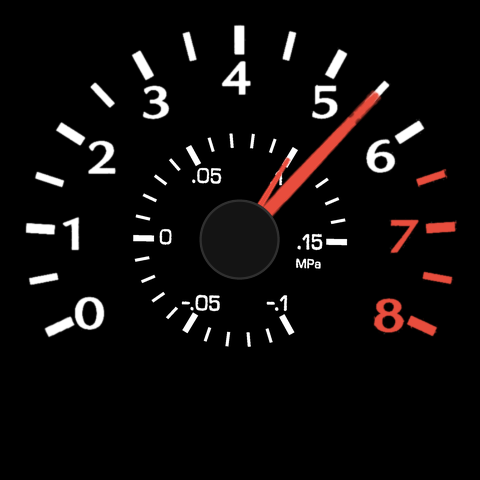
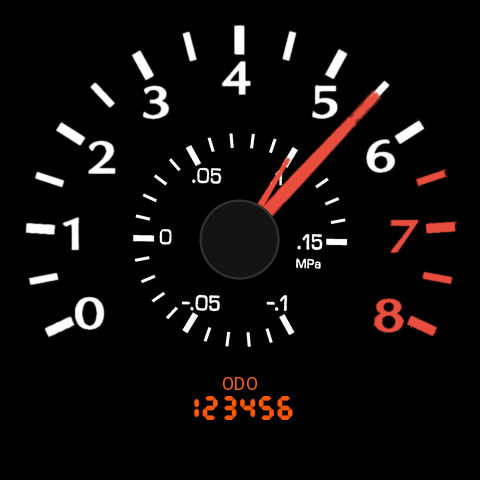
Legend Roboto Regular 13 px hinted; boost tach night mode

Changed region(s): [[0.4062, 0.7812, 0.625, 0.875]]

diff --git a/tools/odo/seg7.py b/tools/odo/seg7.py
@@ -43,31 +43,35 @@ def field_text(kind,value):
     return s
 # Legend ('ODO' / 'TRIP') in the Toyota LCD style (owner reference, 2026-10-16). Typeface: Roboto Regular, the closest
 # installed match to the traced Toyota 'ODO' legend (tools/odo/legend_extract.py; width ratio 1.01, ink ratio 1.00, IoU 0.78).
-# Cap height 0.47 x digit height and gap 0.24 x digit height, both measured off the Toyota ODO frame. Centred on the readout.
-# Colour: the gauge-light (night printing) orange, day and night.
-LEGEND=dict(font='/usr/share/fonts/truetype/roboto/unhinted/RobotoTTF/Roboto-Regular.ttf',cap_ratio=0.47,gap_ratio=0.24,
+# Cap height 13 px (owner, 2026-10-16: Regular enlarged rather than Medium; Toyota proportion would be 11 px), rendered
+# directly at 1x with FreeType hinting so the vertical stems snap to whole pixel columns. Gap 6 px (0.24 x digit height,
+# Toyota ODO frame). Centred on the readout. Colour: the gauge-light (night printing) orange, day and night.
+LEGEND=dict(font='/usr/share/fonts/truetype/roboto/unhinted/RobotoTTF/Roboto-Regular.ttf',cap_px=13,gap_px=6,
             rgb=list(P['printing_orange']),text={'odo':'ODO','trip':'TRIP'})
-def render_legend(word,cap,ss=8):
+def render_legend(word,cap):
     from PIL import ImageFont
-    ft=ImageFont.truetype(LEGEND['font'],100*ss); top,bot=ft.getbbox('H')[1],ft.getbbox('H')[3]  # shared cap line + baseline
-    l,_,r,_=ft.getbbox(word); im=Image.new('L',(r-l+4*ss,bot-top),0)
-    ImageDraw.Draw(im).text((-l+2*ss,-top),word,font=ft,fill=255)
-    W=max(1,round(im.width*cap/im.height)); m=np.asarray(im.resize((W,cap),Image.LANCZOS)).astype(float)/255
-    xs=np.where(m.max(0)>0.02)[0]; return m[:,xs.min():xs.max()+1]
+    def draw(sz):
+        ft=ImageFont.truetype(LEGEND['font'],sz); im=Image.new('L',(sz*len(word)+20,sz*2),0)
+        ImageDraw.Draw(im).text((4,4),word,font=ft,fill=255); return np.asarray(im).astype(float)/255
+    for sz in range(4,400):                       # smallest point size whose hinted caps are exactly `cap` px
+        m=draw(sz); ys=np.where(m.max(1)>0.5)[0]
+        if ys.max()-ys.min()+1>=cap: break
+    ys=np.where(m.max(1)>0.02)[0]; xs=np.where(m.max(0)>0.02)[0]
+    return m[ys.min():ys.max()+1,xs.min():xs.max()+1]
 def _blend(img,m,x0,y0,rgb):
     h,w=m.shape; reg=img[y0:y0+h,x0:x0+w]; img[y0:y0+h,x0:x0+w]=reg*(1-m[...,None])+m[...,None]*np.array(rgb,float)
 def draw_field(img,kind,value,rgb=ODO_RGB,legend=True):
     m=render_text(field_text(kind,value),FIELD['h']); h,w=m.shape
     x0=int(round(FIELD['xc']-w/2)); y0=int(round(FIELD['yc']-h/2)); _blend(img,m,x0,y0,rgb)
     if legend:
-        cap=round(LEGEND['cap_ratio']*FIELD['h']); gap=round(LEGEND['gap_ratio']*FIELD['h'])
-        lm=render_legend(LEGEND['text'][kind],cap); _blend(img,lm,int(round(FIELD['xc']-lm.shape[1]/2)),y0-gap-cap,LEGEND['rgb'])
+        cap=LEGEND['cap_px']; gap=LEGEND['gap_px']
+        lm=render_legend(LEGEND['text'][kind],cap); _blend(img,lm,int(round(FIELD['xc']-lm.shape[1]/2)),y0-gap-lm.shape[0],LEGEND['rgb'])
     return img
 if __name__=='__main__':
     for ch in '0123456789-':
         Image.fromarray((render_text(ch,64)*255).astype(np.uint8),'L').save(f'art/glyphs/seg7/{ch if ch!="-" else "minus"}_64.png')
     for k,wd in LEGEND['text'].items():
-        c=round(LEGEND['cap_ratio']*FIELD['h']); Image.fromarray((render_legend(wd,c)*255).astype(np.uint8),'L').save(f'art/glyphs/seg7/legend_{wd}.png')
+        c=LEGEND['cap_px']; Image.fromarray((render_legend(wd,c)*255).astype(np.uint8),'L').save(f'art/glyphs/seg7/legend_{wd}.png')
         Image.fromarray((render_legend(wd,64)*255).astype(np.uint8),'L').save(f'art/glyphs/seg7/legend_{wd}_64.png')
     json.dump(dict(GEOM=GEOM,FIELD=FIELD,LEGEND=LEGEND,color_rgb=ODO_RGB,segments=SEG,odo='up to 6 digits, no tenths, centred under RPMX1000',trip='up to 999.9, DP in the gap, centred under RPMX1000'),open('art/glyphs/seg7/seg7.json','w'),indent=1)
     print('ODO colour',ODO_RGB)

diff --git a/tools/alt-faces/tach_boost_mock.py b/tools/alt-faces/tach_boost_mock.py
@@ -1,8 +1,11 @@
-"""Daylight mock: boost sub-dial (half the tach tick-ring radius) concentric with the tach; shortened boost needle
-drawn beneath the tach needle so its hub hides under the tach hub."""
+"""Day and night mock: boost sub-dial (half the tach tick-ring radius) concentric with the tach; shortened boost needle
+drawn beneath the tach needle so its hub hides under the tach hub.
+Night: the boost print goes through the same night mapping as the tach print (white -> printing orange), both needles
+use the night needle red, and the hub halo is the tach's. The odometer/trip readout is drawn as on the plain tach."""
 import sys, json, numpy as np
 from PIL import Image, ImageDraw
-sys.path.insert(0,'tools/alt-faces'); import boost_face as bf
+sys.path.insert(0,'tools/alt-faces'); sys.path.insert(0,'tools/night'); sys.path.insert(0,'tools/odo')
+import boost_face as bf, night_preview as npv, seg7
 F=json.load(open('art/faces/faces.json'))['gauges']['tach']; N=json.load(open('art/needles/needles.json'))['gauges']['tach']
 TACH_RO=214.0; BOOST_RO=TACH_RO/2
 def tach_angle(rpm): return -115.6+rpm*0.02885
@@ -10,13 +13,17 @@ face=np.asarray(Image.open('art/faces/tach_480.png').convert('RGB')).astype(floa
 RPM_LABEL=(170,149,310,174)   # RPMX1000 bbox (x0,y0,x1,y1), removed in boost mode per owner 2026-10-16
 boost_face=face.copy(); x0,y0,x1,y1=RPM_LABEL; boost_face[y0:y1,x0:x1]=0
 dial=bf.build(BOOST_RO); S=dial.shape[0]; cx,cy=F['pivot_px']
-def compose(rpm,mpa,with_boost=True):
+def compose(rpm,mpa,with_boost=True,night=False,odo=('odo',123456)):
     img=(boost_face if with_boost else face).copy()
     if with_boost:
         x0=int(round(cx-S/2)); y0=int(round(cy-S/2))
         reg=img[y0:y0+S,x0:x0+S]; img[y0:y0+S,x0:x0+S]=np.maximum(reg,dial[...,None]*255)   # white print on the same black plane
-    im=Image.fromarray(img.astype(np.uint8)).convert('RGBA')
-    nd=Image.open(f"art/needles/{N['needle_png']}").convert('RGBA'); px,py=N['pivot_px']
+    if night:
+        img=npv.night_face(img.astype(np.uint8)); hm=npv.halo(img.shape,F['pivot_px'],F['hub_radius_mm']*F['px_per_mm'])
+        img=img*(1-hm[...,None])+npv.C[npv.H['color']]*hm[...,None]
+    if odo: img=seg7.draw_field(img,*odo)
+    im=Image.fromarray(np.clip(img,0,255).astype(np.uint8)).convert('RGBA')
+    nd=npv.needle_img(f"art/needles/{N['needle_png']}",night); px,py=N['pivot_px']
     def put(ndl,pv,ang):
         W=int(2*max(ndl.size)+4); cv=Image.new('RGBA',(W,W)); cv.paste(ndl,(int(W/2-pv[0]),int(W/2-pv[1])))
         cv=cv.rotate(-ang,resample=Image.BICUBIC,center=(W/2,W/2)); im.alpha_composite(cv,(int(cx-W/2),int(cy-W/2)))
@@ -29,7 +36,9 @@ def compose(rpm,mpa,with_boost=True):
     return im.convert('RGB')
 if __name__=='__main__':
     cases=[('stock tach, 3000 rpm',3000,0,False),('idle: 850 rpm, -0.06 MPa',850,-0.06,True),('pull: 5500 rpm, +0.10 MPa',5500,0.10,True)]
-    out=Image.new('RGB',(3*490-10,480+34),(30,30,30)); d=ImageDraw.Draw(out)
-    for i,(t,r,b,w) in enumerate(cases):
-        out.paste(compose(r,b,w),(i*490,34)); d.text((i*490+6,10),t,fill=(220,220,220))
-    out.save('art/preview/tach_boost_preview.png'); compose(5500,0.10).save('art/preview/tach_boost_480.png'); print('ok')
+    out=Image.new('RGB',(3*490-10,2*(480+34)),(30,30,30)); d=ImageDraw.Draw(out)
+    for row,nt in enumerate((False,True)):
+        for i,(t,r,b,w) in enumerate(cases):
+            y=row*514; out.paste(compose(r,b,w,nt),(i*490,y+34)); d.text((i*490+6,y+10),('night: ' if nt else 'day: ')+t,fill=(220,220,220))
+    out.save('art/preview/tach_boost_preview.png'); compose(5500,0.10).save('art/preview/tach_boost_480.png')
+    compose(5500,0.10,night=True).save('art/preview/tach_boost_480_night.png'); print('ok')

diff --git a/docs/PLAN.md b/docs/PLAN.md
@@ -23,7 +23,8 @@ Status: Phase 0 (discovery). Prepared 2026-10-12. Rev 2: decisions log added (se
 | 2026-10-14 | The cluster can't be scanned non-destructively. v2 faces and overlay rebuilt from needle-free photos with geometric rectification (section 4.2d). |
 | 2026-10-14 | Frame leveled: rotated 2.17° CCW. Printed text (RPMX1000, FUEL DOOR, MPH, km/h, TYPE AC, MI) measured 2.05–2.30° clockwise; it now reads 0.0°. Dial sweeps are within 0.5° of symmetric about vertical. Tach 0 tick rebuilt from the 1000 rpm tick (the knob post hid its end); the stop-pin mask by the 8 was tightened. |
 | 2026-10-14 | Odometer goes digital (owner): the drum module is too large to keep (rear photos IMG_7579/7580/7582). Odometer is drawn in the bottom of the speedo face, trip meter where FUEL DOOR is printed on the tach. Exact stock text placement is not required. Speedo must stay stock size; the tach may shrink slightly. The white rear body will be trimmed to take the screens. |
-| 2026-10-16 | Odometer/trip readout (owner): a 7-segment LCD readout styled after the late-90s Dodge Dakota odometer: upright (no slant), bold segments, hairline gaps. Digit height 24 px on the 480 tach art (the old FUEL DOOR lettering height of 21 px, +15 %, owner revision); both readouts are centred directly under RPMX1000 (x centre 240) at the old FUEL DOOR line (y centre 408). Odometer: 6 digits, no tenths. Trip: 999.9, with the decimal point in the gap between cells. Colour: the night printing orange at full saturation, RGB 255,89,0, the same day and night. Legend (owner, 2026-10-16): 'ODO' / 'TRIP' in the Toyota LCD style (reference frames `art/glyphs/seg7/ref_toyota_odo.jpg`, `ref_toyota_trip.jpg`; traces via `tools/odo/legend_extract.py`), set in Roboto Regular, the closest installed match to the traced Toyota ODO (width ratio 1.01, ink ratio 1.00, IoU 0.78; the TRIP frame is ~18 px and tilted ~10 degrees, so it was a visual check only). Cap height 11 px (0.47 x digit height) with a 6 px gap (0.24 x), both ratios measured off the Toyota ODO frame; centred over the readout; gauge-light orange RGB 250,100,20 day and night. ODO shows with the odometer, TRIP with the trip. The boost sub-dial clears it by about 30 px. Trip key: tap toggles ODO/TRIP; hold 2 s resets the trip only (never the odometer), switching to TRIP if ODO is showing so 0.0 is visible. This replaces the separate trip-reset key; on the membrane pad it is key A (Blink key 4). Files: `tools/odo/seg7.py`, `tools/odo/odo_mock.py`, `art/glyphs/seg7/`, `art/preview/odo_trip_preview.png`. |
+| 2026-10-16 | Boost tach night mode (owner): the boost sub-dial print uses the same night mapping as the tach print (white to printing orange RGB 250,100,20), the boost needle uses the night needle red (RGB 230,5,25) like the tach needle, and the hub halo is the tach's. The odometer/trip readout is shown on the boost tach as well. Files: `tools/alt-faces/tach_boost_mock.py`, `art/preview/tach_boost_preview.png` (day row, night row), `art/preview/tach_boost_480_night.png`. |
+| 2026-10-16 | Odometer/trip readout (owner): a 7-segment LCD readout styled after the late-90s Dodge Dakota odometer: upright (no slant), bold segments, hairline gaps. Digit height 24 px on the 480 tach art (the old FUEL DOOR lettering height of 21 px, +15 %, owner revision); both readouts are centred directly under RPMX1000 (x centre 240) at the old FUEL DOOR line (y centre 408). Odometer: 6 digits, no tenths. Trip: 999.9, with the decimal point in the gap between cells. Colour: the night printing orange at full saturation, RGB 255,89,0, the same day and night. Legend (owner, 2026-10-16): 'ODO' / 'TRIP' in the Toyota LCD style (reference frames `art/glyphs/seg7/ref_toyota_odo.jpg`, `ref_toyota_trip.jpg`; traces via `tools/odo/legend_extract.py`), set in Roboto Regular, the closest installed match to the traced Toyota ODO (width ratio 1.01, ink ratio 1.00, IoU 0.78; the TRIP frame is ~18 px and tilted ~10 degrees, so it was a visual check only). Cap height 13 px (owner, 2026-10-16: Regular enlarged pre-emptively instead of switching to Medium; stem about 1.7 px vs 1.44 px at the Toyota proportion of 11 px; revisit on the bench panel), rendered with FreeType hinting at 1x so stems land on whole pixel columns; 6 px gap (0.24 x digit height, from the Toyota ODO frame); centred over the readout; gauge-light orange RGB 250,100,20 day and night. ODO shows with the odometer, TRIP with the trip. The boost sub-dial clears it by about 30 px. Trip key: tap toggles ODO/TRIP; hold 2 s resets the trip only (never the odometer), switching to TRIP if ODO is showing so 0.0 is visible. This replaces the separate trip-reset key; on the membrane pad it is key A (Blink key 4). Files: `tools/odo/seg7.py`, `tools/odo/odo_mock.py`, `art/glyphs/seg7/`, `art/preview/odo_trip_preview.png`. |
 | 2026-10-16 | FUEL DOOR (owner): the words FUEL DOOR are removed from every tach face (that area becomes the trip/odometer readout). The arrow moves to the fuel face beside the pump icon at 3/4 of the pump height (40 x 38 px), with the same 1.08 mm gap it had after "DOOR"; it sits 2 mm inside the hole. Not on the ethanol face. The pump icon and arrow form a separate A8 layer (`art/faces/fuel_icon_A8.png`, base face `art/faces/fuel_base_480.png`) so the firmware can turn both yellow (placeholder RGB 255,200,0) below a low-fuel threshold still to be decided. Fuel face only, never the ethanol face; the yellow applies day and night. Stock sources are kept in `art/faces/source/`. Files: `tools/alt-faces/fuel_door_arrow.py`, `art/faces/fuel_icon.json`, `art/preview/fuel_lowfuel_preview.png`. |
 | 2026-10-16 | Boost alternate tach face, MOCK (daylight only): a boost sub-dial from the owner's Lamco TURBO gauge photo (`art/boost/ref_IMG_7566.jpg`), MPa -0.10 to +0.15, 26 ticks 12 deg apart, -0.10 at 151.1 deg. The ticks are redrawn and the labels lifted from the photo; the hidden 0 is rebuilt from the 0 of ".05"; no logo, screws or outer ring. White on the same black plane, concentric with the tach, tick outer radius 107 px (half the tach's 214 px). The boost needle is the tach master needle scaled to 0.915 of the sub-dial radius, drawn under the tach needle so its hub is hidden. Owner 2026-10-16: TURBO removed from the sub-dial, and RPMX1000 removed from the tach face in boost mode. Files: `tools/alt-faces/boost_face.py`, `tools/alt-faces/tach_boost_mock.py`, `art/boost/`, `art/preview/tach_boost_preview.png`. |
 | 2026-10-14 | Oil-temp alternate for the temp gauge: the coolant icon (ISO 7000-0246) is replaced by ISO 2575 F.05 "Engine oil temperature" (ISO 7000-2426), extracted from the ISO 2575:2010 Annex F table, emboldened toward the stock icon's stroke weight, and placed 74 x 54 px at the coolant icon position (44 px inside the hole). C/H, the red hot tick and the blue cold tick are unchanged; only the firmware calibration differs. Files: `tools/alt-faces/oil_temp_face.py`, `art/faces/temp_oil_480.png`, `art/preview/temp_oil_preview.png`. |
